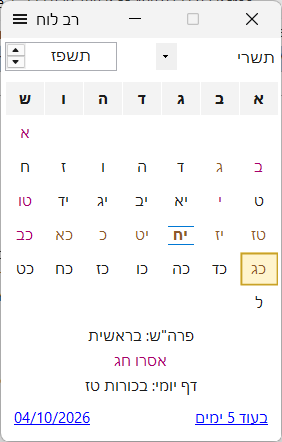
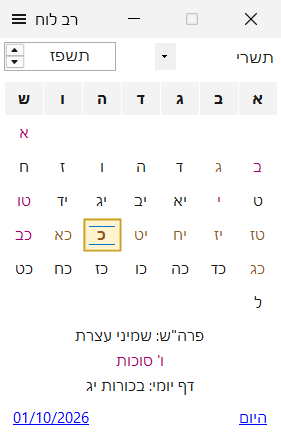
Add files via upload

diff --git a/docs/index.html b/docs/index.html
@@ -52,7 +52,8 @@
   .btn-primary:hover { background: var(--accent-strong); }
   .btn-ghost { color: var(--accent); border: 1px solid var(--line); background: var(--surface); }
   .meta { margin-top: 14px; color: var(--muted); font-size: 15px; }
-  .shot-main { justify-self: center; border-radius: 10px; box-shadow: 0 18px 50px rgba(40, 10, 60, .22); border: 1px solid var(--line); }
+  /* צילום החלון כמו חלון של Windows 11: פינות מעוגלות וצל רך, בלי מסגרת */
+  .shot-main { justify-self: center; border-radius: 8px; box-shadow: 0 0 0 1px rgba(0, 0, 0, .06), 0 20px 50px rgba(40, 10, 60, .25); }
 
   /* sections */
   section { padding: 44px 0; }
@@ -125,7 +126,7 @@
       </div>
       <p class="meta">גרסה 2.0.0 · <span class="ltr">Windows 10 / 11</span> (64 ביט) · <a href="https://github.com/elischein/RavLuach/releases">כל הגרסאות</a></p>
     </div>
-    <img class="shot-main" src="images/main-window.png" width="282" height="442" alt="החלון הראשי של רב לוח - חודש תשרי">
+    <img class="shot-main" src="images/main-window.png" width="281" height="442" alt="החלון הראשי של רב לוח - חודש תשרי">
   </div>
 </div>
 
